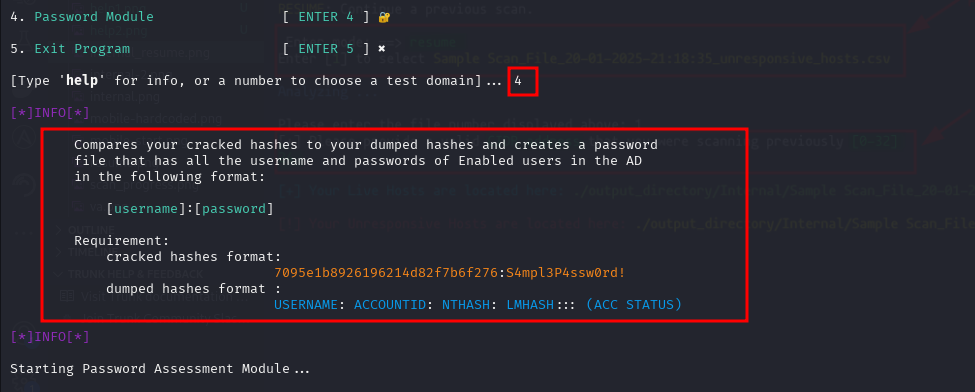
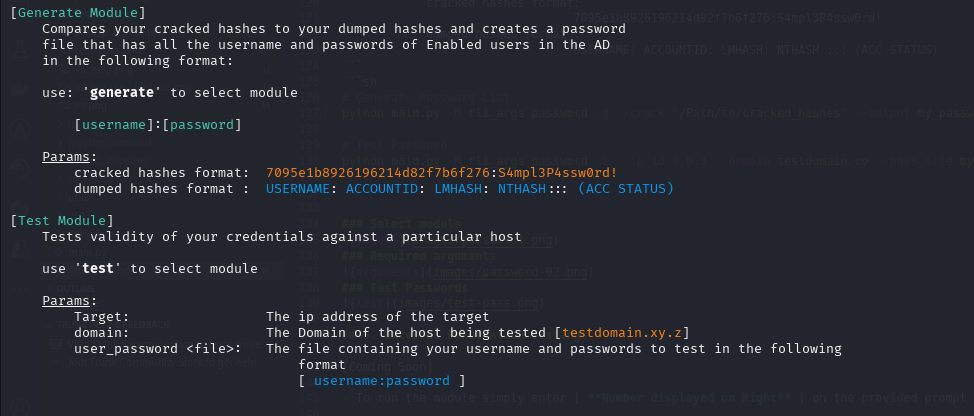
updated readme with updated images

diff --git a/README.md b/README.md
@@ -17,10 +17,8 @@ Some of the Scope covered or in progress include but not limited to:
 | External Penetration Testing | 1. Enumerate subdomains                           [coming_soon]    |
 |                              |                                                                    |
 | Internal Penetration Testing | 1. Enumerate IPs give CIDR                        [completed]      |
-|                              | 2. Run netexec         des                                         |
 |                              |                                                                    |
-|                              |                                                                    |
-| Mobile Penetration Testing   | 1. Static Analysis (iOS/Android)                                   |
+| Mobile Penetration Testing   | 1. Static Analysis (iOS/Android)                  [completed]      |
 |                              |                                                                    |
 | Vulnerability Analysis       | 1. Analyze Nessus and Rapid7 VA scans             [completed]      |
 |                              | 2. Accepts both CSV and XSLX inputs               [completed]      |
@@ -28,6 +26,11 @@ Some of the Scope covered or in progress include but not limited to:
 | Password Operation           | 1. Generate password list from cracked hashes     [completed]      |
 |                              | 2. Test credentials                               [completed]      |
 |                              |                                                                    |
+
+The script runs in two modes: [interactive and cli_args]
+    1. interactive: An interactive mode that takes user input step by step (Good for first time run)
+    2. cli_args:    Takes command line arguments and execute the script in a one liner
+
 ## 1. Internal Penetration Testing
 
 - Focuses on enumerating an organization's _Internal Network_
@@ -37,15 +40,20 @@ Some of the Scope covered or in progress include but not limited to:
   ```text
   Example:
       10.0.0.3/16
+
   ```
-  ```sh
-    python main.py -M cli_args internal -a scan -I eth0 --ip 10.0.0.3/16 -o Output_file
-  ```
-  ![Internal Module](images/internal-2.png)
+  
+  ![internal help](images/internal-2.png)
+  ![Internal Module](images/internal.png)
 
 - The script then enumerates the provided subnet and uses ICMP protocol to determine hosts that are alive on the network
 - The scan runs on two modes **SCAN** and **RESUME**
 - SCAN mode: default mode where the script runs a scan and saves to a csv file
+```sh
+    python main.py -M cli_args internal -a scan -I eth0 --ip 10.0.0.3/16 -o Output_file
+```
+![scan mode](images/internal_scan.png)
+
 - RESUME mode: the script resumes scan from the last saved IP address from your provided csv file
 
 ```text
@@ -56,7 +64,7 @@ The script then looks for a file with a similar filename excluding "unresponsive
 The user is however required to provide the subnet that was being scanned initially i.e /8 /16 /24 e.t.c
 ```
 ```sh
-    python main.py -M cli_args internal -a resume  -I eth0 --resume /Path/to/unresponsive-file --mask 16
+    python main.py -M cli_args internal -a resume  -I eth0 --resume "/Path/to/unresponsive-file" --mask 16
 
 ```
 ![Resume_scan](images/internal_resume.png)
@@ -75,7 +83,9 @@ The user is however required to provide the subnet that was being scanned initia
 ```sh
 python main.py -M cli_args va -s nessus -o OUTPUT -P "/Path/to/scanned/files" 
 ```
-![Vulnerability Analysis](images/va.png)
+![Vulnerability Help](images/va_help.png)
+![Vulnerability Scanner](images/va_scanner_filetype.png)
+![Vulnerabilty Analysis](images/va.png)
 
 ## 3. Mobile Penetration Testing
 
@@ -88,7 +98,7 @@ python main.py -M cli_args va -s nessus -o OUTPUT -P "/Path/to/scanned/files"
 3. IP addresses present
 4. Decode any available base64 strings
 ```sh
-python main.py -M cli_args mobile -P /Path/To/[Apk or iOS] file
+python main.py -M cli_args mobile -P "/Path/To/Apk_or_iOS_file"
 ```
 
 ### Start script
@@ -98,23 +108,15 @@ python main.py -M cli_args mobile -P /Path/To/[Apk or iOS] file
 ![Hardcoded strings](images/mobile-hardcoded.png)
 
 ## 4. Password Operation Module
+This module has two actions:
+    generate ==> Generates a password list from your already cracked hashes and ntds file
+    test ==> test your credentials against a particular IP address using SMB protocol (uses netexec)
+    
+![module help](images/password1.png)
 
-```text
-Compares your cracked hashes to your dumped hashes and creates a password
-file that has all the username and passwords of Enabled users in the AD
-in the following format:
-
-        [username]:[password]
-
-        :params:
-            cracked hashes format:
-                                 7095e1b8926196214d82f7b6f276:S4mpl3P4ssw0rd!
-            dumped hashes format :
-                                 USERNAME: ACCOUNTID: LMHASH: NTHASH ::: (ACC STATUS)
-```
 ```sh
 # Generate Password List
-python main.py -M cli_args password -g --crack /Path/to/cracked_hashes --output my_password_list --dump Path/to/dumps.ntds
+python main.py -M cli_args password -g --crack "/Path/to/cracked_hashes" --output my_password_list --dump "Path/to/dumps.ntds"
 
 # Test Password
 python main.py -M cli_args password -t --ip 10.0.0.3 --domain testdomain.co --pass_file my_password_list
@@ -122,7 +124,7 @@ python main.py -M cli_args password -t --ip 10.0.0.3 --domain testdomain.co --pa
 ```
 
 ### Select module
-![module](images/password1.png)
+
 ### Required arguments
 ![arguments](images/password-02.png)
 ### Test Passwords
